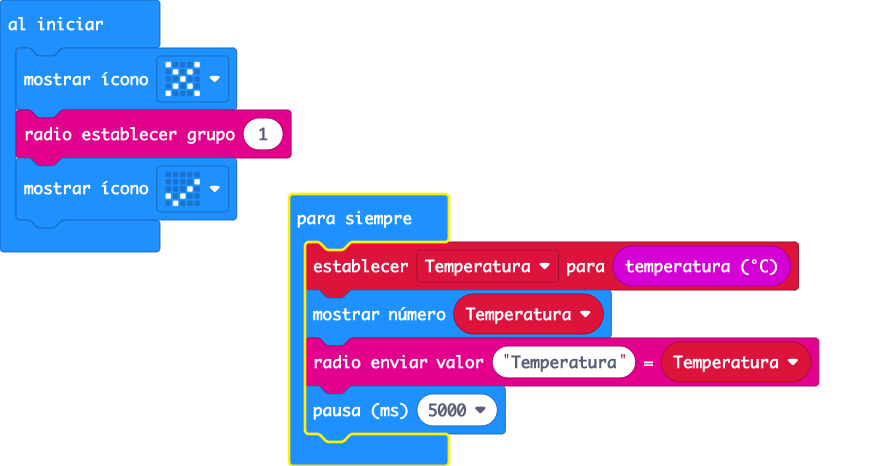
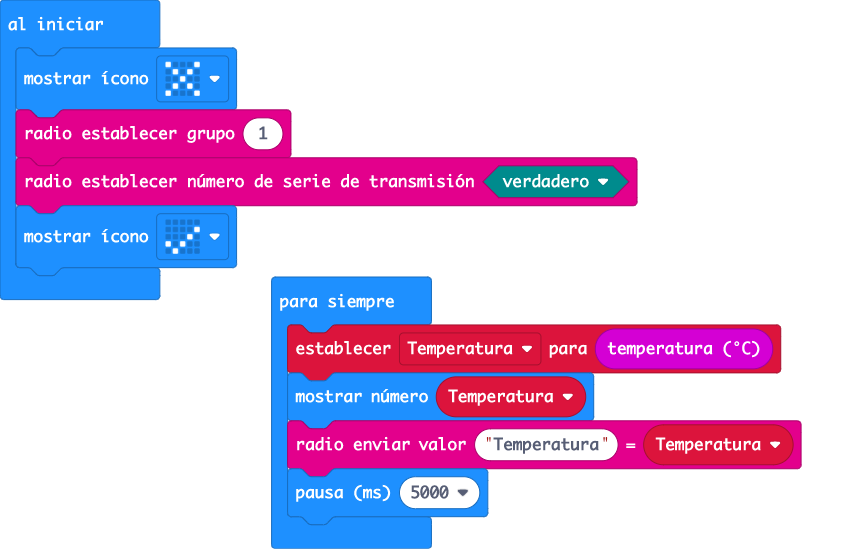
Update main.blocks, main.ts

Changed region(s): [[0.0, 0.0, 0.9449, 1.0], [0.0, 0.5408, 0.1829, 0.5708]]

diff --git a/main.ts b/main.ts
@@ -1,6 +1,7 @@
 let Temperatura = 0
 basic.showIcon(IconNames.No)
 radio.setGroup(1)
+radio.setTransmitSerialNumber(true)
 basic.showIcon(IconNames.Yes)
 basic.forever(function () {
     Temperatura = input.temperature()
